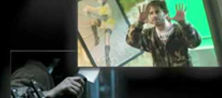
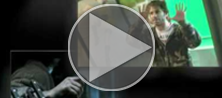
updated uberscott.com with thumbnails:

Changed region(s): [[0.2973, 0.0306, 0.7027, 0.949]]

diff --git a/uberscott.com/astrobattle.html b/uberscott.com/astrobattle.html
@@ -26,16 +26,10 @@
         <div class="flexslider">
           <ul class="slides">
          <li data-thumb="images/astro-battle2.png"> <img src="images/astro-battle2.png"  class="img-responsive" />
-            <li data-thumb="images/astro-battle2.png">
-              <iframe width="750" height="320" src="https://www.youtube.com/embed/hWS0tMF2PwQ" frameborder="0" allowfullscreen></iframe>
+            <li data-thumb="images/astro-battle-vid.png">
+              <iframe width="750" height="320" src="https://www.youtube.com/embed/7jV_4oWMdWA" frameborder="0" allowfullscreen></iframe>
+
         
-        <!--    <li data-thumb="images/astro-battle3.png"> <img src="images/astro-battle3.png"  class="img-responsive" />
-    <li data-thumb="images/astro-battle4.png"> <img src="images/astro-battle4.png"  class="img-responsive" />
-     <li data-thumb="images/astro-battle5.png"> <img src="images/astro-battle4.png"  class="img-responsive" />
-                 <li data-thumb="images/astro-battle5.png"> <img src="images/astro-battle5.png"  class="img-responsive" />
-    <li data-thumb="images/astro-battle6.png"> <img src="images/astro-battle6.png"  class="img-responsive" />
-     <li data-thumb="images/astro-battle7.png"> <img src="images/astro-battle7.png"  class="img-responsive" />
-                 <li data-thumb="images/astro-battle8.png"> <img src="images/astro-battle8.png"  class="img-responsive" />-->
     <li data-thumb="images/astro-battle9.png"> <img src="images/astro-battle9.png"  class="img-responsive" />
      <li data-thumb="images/astro-battle10.png"> <img src="images/astro-battle10.png"  class="img-responsive" />
       <li data-thumb="images/astro-battle11.png"> <img src="images/astro-battle11.png"  class="img-responsive" />

diff --git a/uberscott.com/index.html b/uberscott.com/index.html
@@ -133,5 +133,15 @@ onkeyup=""
 <script src="js/wufoo.js"></script>
 <!-- Include all compiled plugins (below), or include individual files as needed -->
 
+<script>
+  (function(i,s,o,g,r,a,m){i['GoogleAnalyticsObject']=r;i[r]=i[r]||function(){
+  (i[r].q=i[r].q||[]).push(arguments)},i[r].l=1*new Date();a=s.createElement(o),
+  m=s.getElementsByTagName(o)[0];a.async=1;a.src=g;m.parentNode.insertBefore(a,m)
+  })(window,document,'script','//www.google-analytics.com/analytics.js','ga');
+
+  ga('create', 'UA-61129703-2', 'auto');
+  ga('send', 'pageview');
+
+</script>
 </body>
 </html>

diff --git a/mightydevco.com/index.html b/mightydevco.com/index.html
@@ -146,5 +146,16 @@ onkeyup=""
 
 <!-- Include all compiled plugins (below), or include individual files as needed -->
 
+<script>
+  (function(i,s,o,g,r,a,m){i['GoogleAnalyticsObject']=r;i[r]=i[r]||function(){
+  (i[r].q=i[r].q||[]).push(arguments)},i[r].l=1*new Date();a=s.createElement(o),
+  m=s.getElementsByTagName(o)[0];a.async=1;a.src=g;m.parentNode.insertBefore(a,m)
+  })(window,document,'script','//www.google-analytics.com/analytics.js','ga');
+
+  ga('create', 'UA-61129703-1', 'auto');
+  ga('send', 'pageview');
+
+</script>
+
 </body>
 </html>
